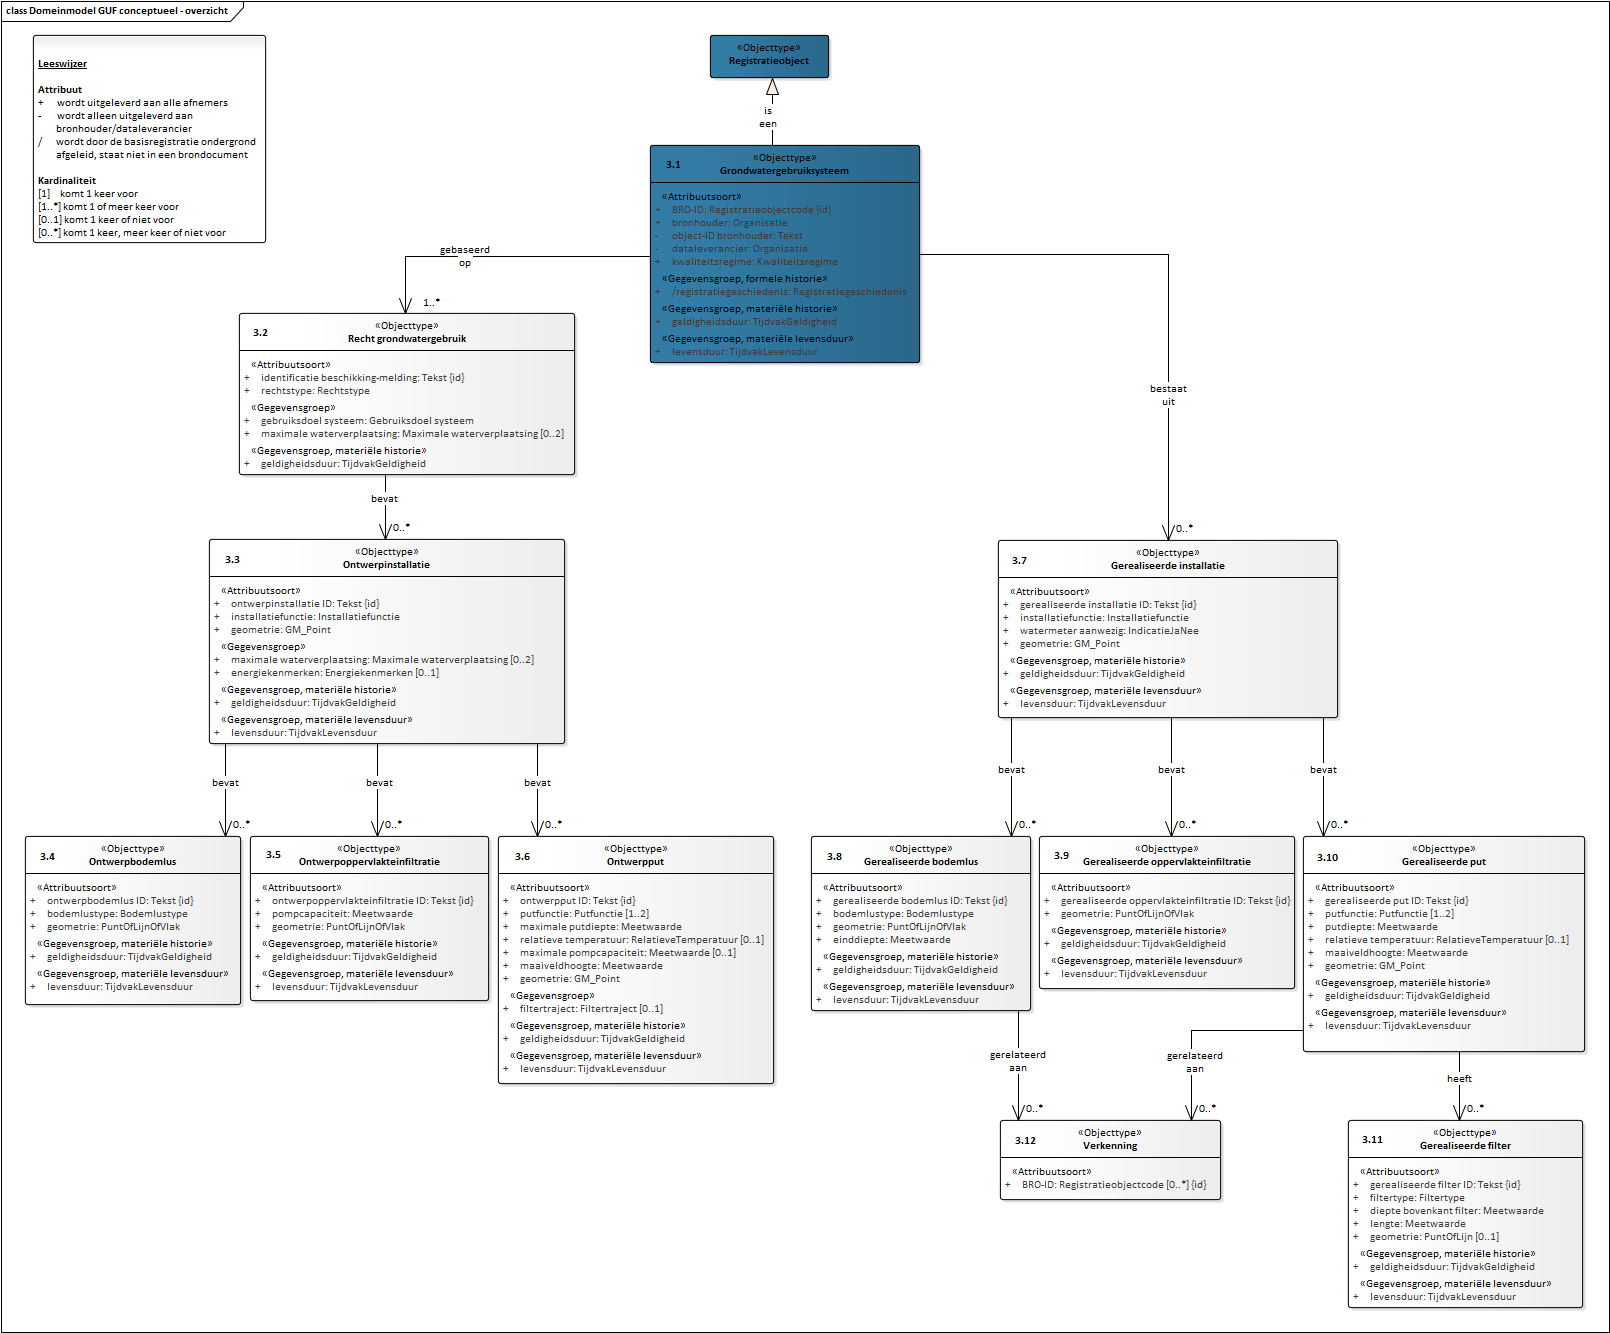
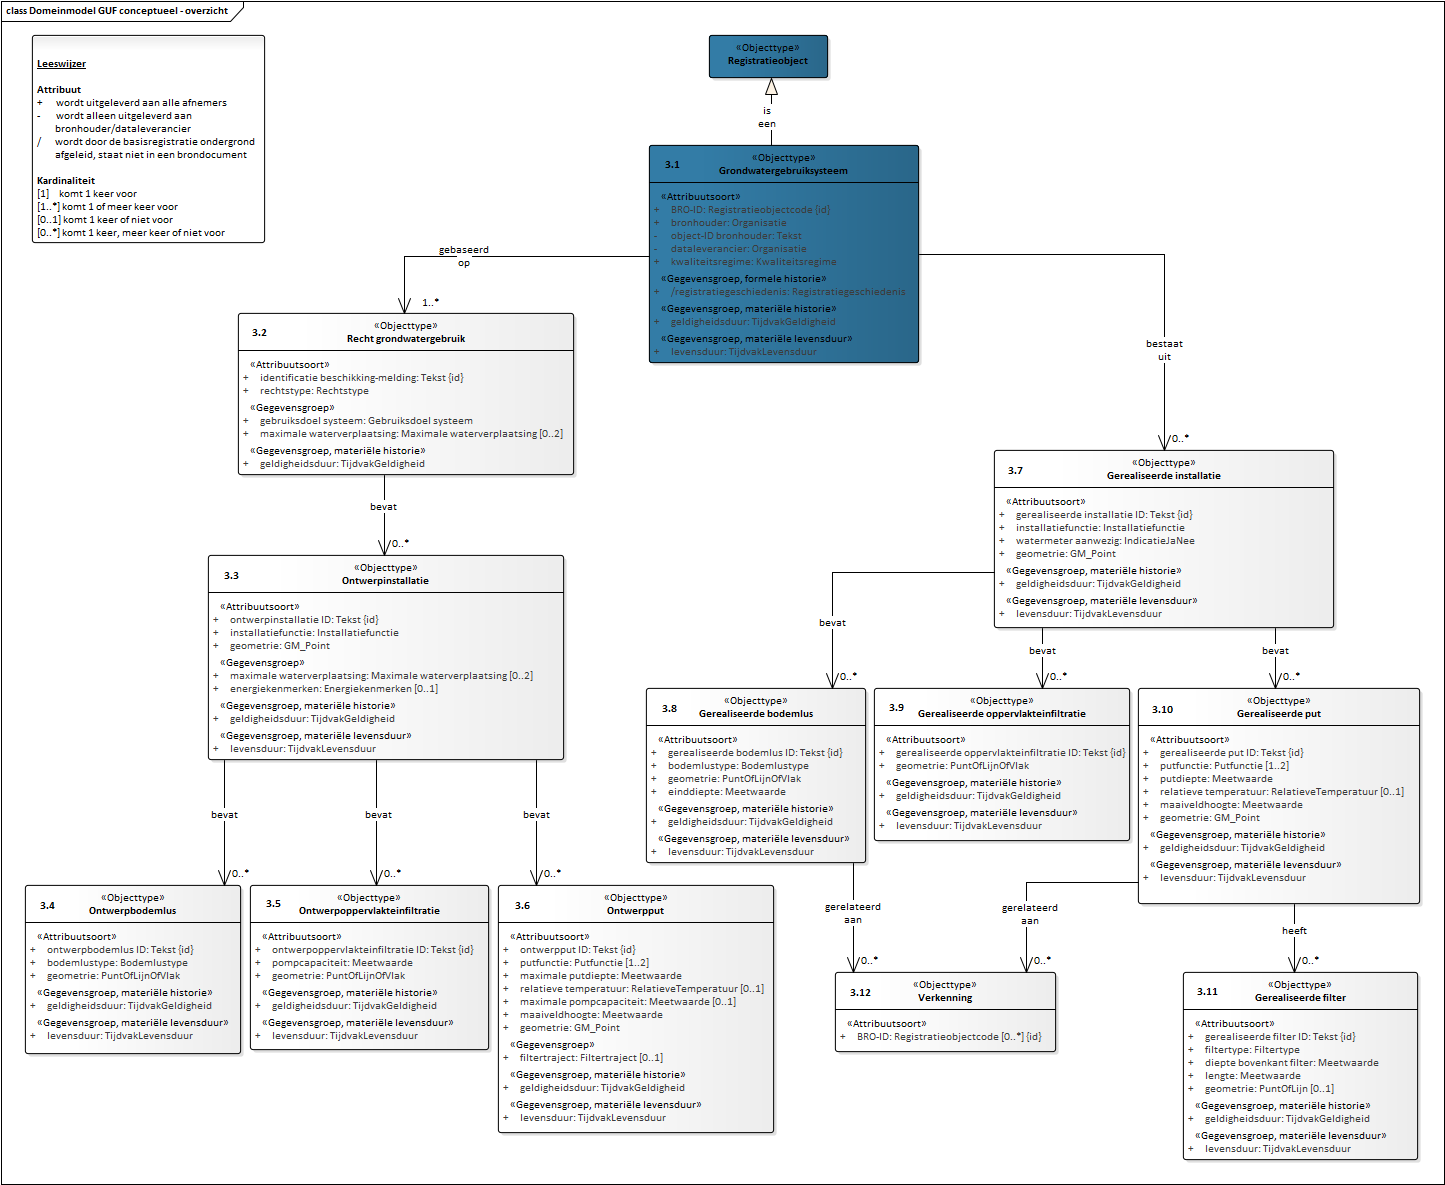
Conceptualmodel-GrondwatergebruikGUFconceptueel-0.1-1-20200401-20210129-140346

diff --git a/data/GUF-cat.msword.html b/data/GUF-cat.msword.html
@@ -15,7 +15,7 @@
    <body>
       <p>Conceptual model/Grondwatergebruik (GUF) conceptueel/20200401</p>
       <p>Imvertor: 1.63.0</p>
-      <p>Model release: Conceptualmodel-GrondwatergebruikGUFconceptueel-0.1-1-20200401-20210129-124207</p>
+      <p>Model release: Conceptualmodel-GrondwatergebruikGUFconceptueel-0.1-1-20200401-20210129-140346</p>
       <hr>
       <section>
          <h1>Artikel 1 Definitie van registratieobject, entiteiten en attributen</h1>
@@ -63,7 +63,7 @@
          <section>
             <h2>Het domeinmodel</h2>
             <section id="">
-               <div class="imageinfo overview"><img src="Images/EAID_56F5F935_4109_4da0_A034_9EA7B40769E1.png" usemap="#imagemap-EAID_56F5F935_4109_4da0_A034_9EA7B40769E1" alt="Diagram "><map name="imagemap-EAID_56F5F935_4109_4da0_A034_9EA7B40769E1"><area shape="rect" alt="Verkenning" coords="1000,1120,1221,1200" href="#graph_EAID_1013D8B2_A4E7_456c_B8BD_D8785259B572"><area shape="rect" alt="Gerealiseerde bodemlus" coords="811,836,1031,1011" href="#graph_EAID_D45703EE_CCD5_434c_A478_BFA48D1A9DCB"><area shape="rect" alt="Gerealiseerde oppervlakteinfiltratie" coords="1039,836,1295,989" href="#graph_EAID_8F717FBD_49AE_47b7_80F3_B91D0A2E3D0C"><area shape="rect" alt="Ontwerpoppervlakteinfiltratie" coords="250,836,489,1001" href="#graph_EAID_48E92D7E_DFE4_4e1a_9CBF_EF96B0324D5C"><area shape="rect" alt="Ontwerpbodemlus" coords="25,836,241,1005" href="#graph_EAID_B81BCB5C_B9C7_42d9_9F9E_3F76580BB410"><area shape="rect" alt="Ontwerpput" coords="498,836,774,1084" href="#graph_EAID_FC483397_9430_4114_AE54_A7BE5A654EA9"><area shape="rect" alt="Gerealiseerde installatie" coords="998,540,1338,718" href="#graph_EAID_45C4EF5D_AC27_47cc_926D_7F514776B53D"><area shape="rect" alt="Gerealiseerde filter" coords="1348,1120,1583,1308" href="#graph_EAID_9D151445_53ED_4738_9920_071518BB50C1"><area shape="rect" alt="Recht grondwatergebruik" coords="239,313,575,475" href="#graph_EAID_1A591F8A_2ECC_4122_86C9_26BFA5C5420E"><area shape="rect" alt="Gerealiseerde put" coords="1303,836,1585,1052" href="#graph_EAID_F75BA1C9_02EB_48e6_B9A8_A018120E2279"><area shape="rect" alt="Ontwerpinstallatie" coords="209,539,565,744" href="#graph_EAID_DB2636FB_090C_4af0_AA40_4301B23795E2"><area shape="rect" alt="Grondwatergebruiksysteem" coords="650,145,920,363" href="#graph_EAID_048DC684_486B_4605_B9CA_40413DB3C9DC"><area shape="rect" alt="Registratieobject" coords="710,35,829,78" href="#graph_EAID_2AC7632D_D0CE_4468_8510_855B506BE12A"></map><p><b>Domeinmodel GUF conceptueel</b></p>
+               <div class="imageinfo overview"><img src="Images/EAID_56F5F935_4109_4da0_A034_9EA7B40769E1.png" usemap="#imagemap-EAID_56F5F935_4109_4da0_A034_9EA7B40769E1" alt="Diagram "><map name="imagemap-EAID_56F5F935_4109_4da0_A034_9EA7B40769E1"><area shape="rect" alt="Verkenning" coords="835,972,1056,1052" href="#graph_EAID_1013D8B2_A4E7_456c_B8BD_D8785259B572"><area shape="rect" alt="Gerealiseerde bodemlus" coords="646,688,866,863" href="#graph_EAID_D45703EE_CCD5_434c_A478_BFA48D1A9DCB"><area shape="rect" alt="Gerealiseerde oppervlakteinfiltratie" coords="874,688,1130,841" href="#graph_EAID_8F717FBD_49AE_47b7_80F3_B91D0A2E3D0C"><area shape="rect" alt="Ontwerpoppervlakteinfiltratie" coords="250,885,489,1050" href="#graph_EAID_48E92D7E_DFE4_4e1a_9CBF_EF96B0324D5C"><area shape="rect" alt="Ontwerpbodemlus" coords="25,885,241,1054" href="#graph_EAID_B81BCB5C_B9C7_42d9_9F9E_3F76580BB410"><area shape="rect" alt="Ontwerpput" coords="498,885,774,1133" href="#graph_EAID_FC483397_9430_4114_AE54_A7BE5A654EA9"><area shape="rect" alt="Gerealiseerde installatie" coords="994,450,1334,628" href="#graph_EAID_45C4EF5D_AC27_47cc_926D_7F514776B53D"><area shape="rect" alt="Gerealiseerde filter" coords="1183,972,1418,1160" href="#graph_EAID_9D151445_53ED_4738_9920_071518BB50C1"><area shape="rect" alt="Recht grondwatergebruik" coords="238,313,574,475" href="#graph_EAID_1A591F8A_2ECC_4122_86C9_26BFA5C5420E"><area shape="rect" alt="Gerealiseerde put" coords="1138,688,1420,904" href="#graph_EAID_F75BA1C9_02EB_48e6_B9A8_A018120E2279"><area shape="rect" alt="Ontwerpinstallatie" coords="208,555,564,760" href="#graph_EAID_DB2636FB_090C_4af0_AA40_4301B23795E2"><area shape="rect" alt="Grondwatergebruiksysteem" coords="649,145,919,363" href="#graph_EAID_048DC684_486B_4605_B9CA_40413DB3C9DC"><area shape="rect" alt="Registratieobject" coords="709,35,828,78" href="#graph_EAID_2AC7632D_D0CE_4468_8510_855B506BE12A"></map><p><b>Domeinmodel GUF conceptueel</b></p>
                </div>
             </section>
          </section>

diff --git a/data/GUF-cat.respec.html b/data/GUF-cat.respec.html
@@ -41,7 +41,7 @@
       </section>
    <section id="">
       <h2>Het domeinmodel   </h2>
-      <div class="imageinfo overview"><img src="data/Images/EAID_56F5F935_4109_4da0_A034_9EA7B40769E1.png" usemap="#imagemap-EAID_56F5F935_4109_4da0_A034_9EA7B40769E1" alt="Diagram "><map name="imagemap-EAID_56F5F935_4109_4da0_A034_9EA7B40769E1"><area shape="rect" alt="Verkenning" coords="1000,1120,1221,1200" href="#graph_EAID_1013D8B2_A4E7_456c_B8BD_D8785259B572"><area shape="rect" alt="Gerealiseerde bodemlus" coords="811,836,1031,1011" href="#graph_EAID_D45703EE_CCD5_434c_A478_BFA48D1A9DCB"><area shape="rect" alt="Gerealiseerde oppervlakteinfiltratie" coords="1039,836,1295,989" href="#graph_EAID_8F717FBD_49AE_47b7_80F3_B91D0A2E3D0C"><area shape="rect" alt="Ontwerpoppervlakteinfiltratie" coords="250,836,489,1001" href="#graph_EAID_48E92D7E_DFE4_4e1a_9CBF_EF96B0324D5C"><area shape="rect" alt="Ontwerpbodemlus" coords="25,836,241,1005" href="#graph_EAID_B81BCB5C_B9C7_42d9_9F9E_3F76580BB410"><area shape="rect" alt="Ontwerpput" coords="498,836,774,1084" href="#graph_EAID_FC483397_9430_4114_AE54_A7BE5A654EA9"><area shape="rect" alt="Gerealiseerde installatie" coords="998,540,1338,718" href="#graph_EAID_45C4EF5D_AC27_47cc_926D_7F514776B53D"><area shape="rect" alt="Gerealiseerde filter" coords="1348,1120,1583,1308" href="#graph_EAID_9D151445_53ED_4738_9920_071518BB50C1"><area shape="rect" alt="Recht grondwatergebruik" coords="239,313,575,475" href="#graph_EAID_1A591F8A_2ECC_4122_86C9_26BFA5C5420E"><area shape="rect" alt="Gerealiseerde put" coords="1303,836,1585,1052" href="#graph_EAID_F75BA1C9_02EB_48e6_B9A8_A018120E2279"><area shape="rect" alt="Ontwerpinstallatie" coords="209,539,565,744" href="#graph_EAID_DB2636FB_090C_4af0_AA40_4301B23795E2"><area shape="rect" alt="Grondwatergebruiksysteem" coords="650,145,920,363" href="#graph_EAID_048DC684_486B_4605_B9CA_40413DB3C9DC"><area shape="rect" alt="Registratieobject" coords="710,35,829,78" href="#graph_EAID_2AC7632D_D0CE_4468_8510_855B506BE12A"></map><p><b>Domeinmodel GUF conceptueel</b></p>
+      <div class="imageinfo overview"><img src="data/Images/EAID_56F5F935_4109_4da0_A034_9EA7B40769E1.png" usemap="#imagemap-EAID_56F5F935_4109_4da0_A034_9EA7B40769E1" alt="Diagram "><map name="imagemap-EAID_56F5F935_4109_4da0_A034_9EA7B40769E1"><area shape="rect" alt="Verkenning" coords="835,972,1056,1052" href="#graph_EAID_1013D8B2_A4E7_456c_B8BD_D8785259B572"><area shape="rect" alt="Gerealiseerde bodemlus" coords="646,688,866,863" href="#graph_EAID_D45703EE_CCD5_434c_A478_BFA48D1A9DCB"><area shape="rect" alt="Gerealiseerde oppervlakteinfiltratie" coords="874,688,1130,841" href="#graph_EAID_8F717FBD_49AE_47b7_80F3_B91D0A2E3D0C"><area shape="rect" alt="Ontwerpoppervlakteinfiltratie" coords="250,885,489,1050" href="#graph_EAID_48E92D7E_DFE4_4e1a_9CBF_EF96B0324D5C"><area shape="rect" alt="Ontwerpbodemlus" coords="25,885,241,1054" href="#graph_EAID_B81BCB5C_B9C7_42d9_9F9E_3F76580BB410"><area shape="rect" alt="Ontwerpput" coords="498,885,774,1133" href="#graph_EAID_FC483397_9430_4114_AE54_A7BE5A654EA9"><area shape="rect" alt="Gerealiseerde installatie" coords="994,450,1334,628" href="#graph_EAID_45C4EF5D_AC27_47cc_926D_7F514776B53D"><area shape="rect" alt="Gerealiseerde filter" coords="1183,972,1418,1160" href="#graph_EAID_9D151445_53ED_4738_9920_071518BB50C1"><area shape="rect" alt="Recht grondwatergebruik" coords="238,313,574,475" href="#graph_EAID_1A591F8A_2ECC_4122_86C9_26BFA5C5420E"><area shape="rect" alt="Gerealiseerde put" coords="1138,688,1420,904" href="#graph_EAID_F75BA1C9_02EB_48e6_B9A8_A018120E2279"><area shape="rect" alt="Ontwerpinstallatie" coords="208,555,564,760" href="#graph_EAID_DB2636FB_090C_4af0_AA40_4301B23795E2"><area shape="rect" alt="Grondwatergebruiksysteem" coords="649,145,919,363" href="#graph_EAID_048DC684_486B_4605_B9CA_40413DB3C9DC"><area shape="rect" alt="Registratieobject" coords="709,35,828,78" href="#graph_EAID_2AC7632D_D0CE_4468_8510_855B506BE12A"></map><p><b>Domeinmodel GUF conceptueel</b></p>
       </div>
    </section>
    <section id="">
